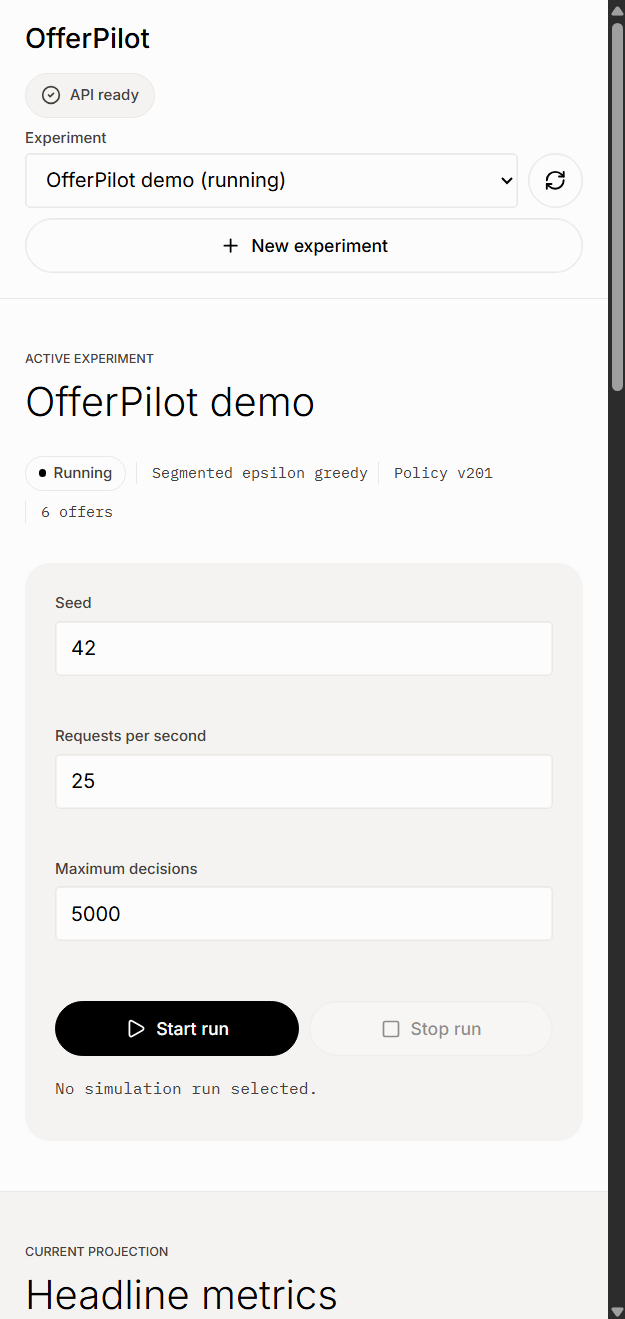
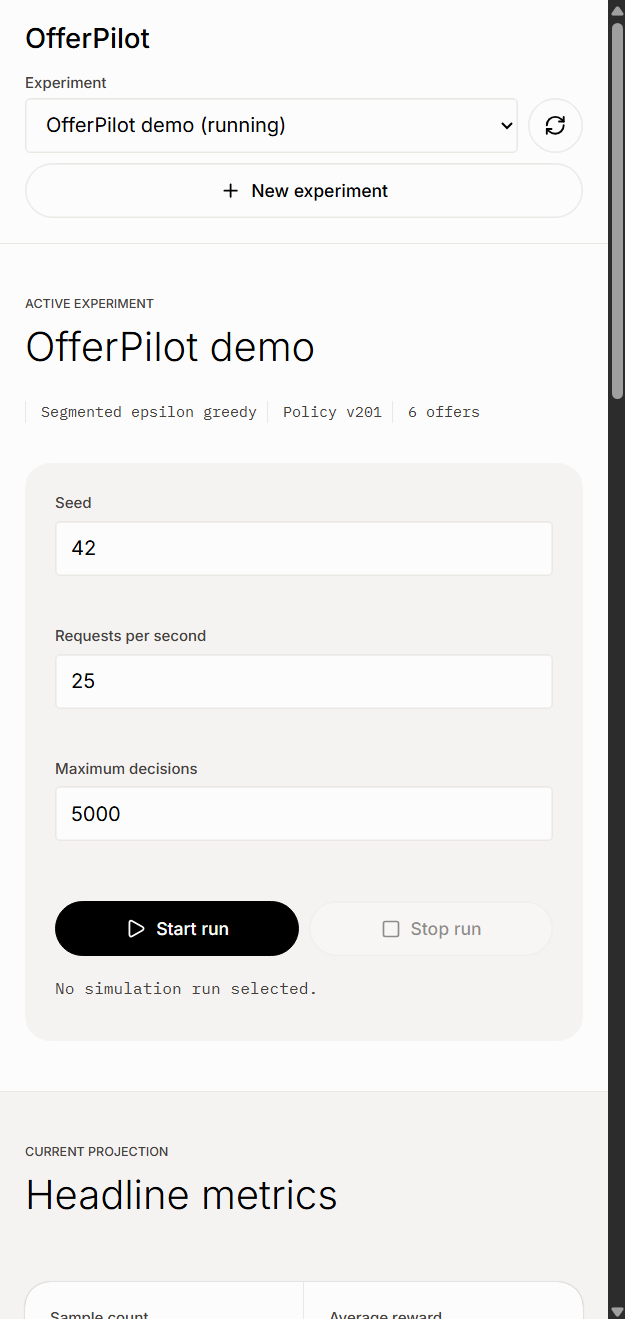
refactor(web): remove decorative status badges

diff --git a/web/src/styles.css b/web/src/styles.css
@@ -220,21 +220,6 @@ code {
   white-space: nowrap;
 }
 
-.health-status {
-  display: inline-flex;
-  min-height: 36px;
-  align-items: center;
-  padding: 0 12px;
-  border: 1px solid var(--color-stone);
-  border-radius: var(--radius-full);
-  gap: 7px;
-  background: var(--color-warm-taupe);
-  color: var(--color-graphite);
-  font-size: 12px;
-  font-weight: 500;
-  white-space: nowrap;
-}
-
 .button,
 .icon-button {
   display: inline-flex;
@@ -392,15 +377,6 @@ code {
   font-size: 12px;
   font-weight: 500;
   white-space: nowrap;
-}
-
-.status-label--running::before,
-.status-label--ready::before {
-  width: 6px;
-  height: 6px;
-  border-radius: var(--radius-full);
-  background: var(--color-ink);
-  content: "";
 }
 
 .status-label--stale,
@@ -917,7 +893,7 @@ code {
 
   .topbar__operations {
     display: grid;
-    grid-template-columns: auto minmax(260px, 1fr) 44px auto;
+    grid-template-columns: minmax(260px, 1fr) 44px auto;
     align-items: end;
   }
 
@@ -969,11 +945,6 @@ code {
 
   .topbar__operations {
     grid-template-columns: minmax(0, 1fr) 44px;
-  }
-
-  .health-status {
-    grid-column: 1 / -1;
-    justify-self: start;
   }
 
   .topbar__operations > .button {

diff --git a/web/src/App.tsx b/web/src/App.tsx
@@ -1,4 +1,4 @@
-import { Activity, CircleAlert, CircleCheck, Plus, RefreshCw, X } from "lucide-react";
+import { Activity, CircleAlert, Plus, RefreshCw, X } from "lucide-react";
 import { lazy, Suspense, useState } from "react";
 import type { FormEvent } from "react";
 
@@ -203,9 +203,6 @@ export default function App() {
                   <h2 id="simulation-controls-title">{dashboard.selectedExperiment.name}</h2>
                 </div>
                 <div className="experiment-context__meta">
-                  <span className={`status-label status-label--${dashboard.selectedExperiment.status}`}>
-                    {humanize(dashboard.selectedExperiment.status)}
-                  </span>
                   <span>{humanize(dashboard.selectedExperiment.policy_kind)}</span>
                   <span>Policy v{dashboard.selectedExperiment.policy_version}</span>
                   {dashboard.experimentDetail === null ? null : <span>{dashboard.experimentDetail.offers.length} offers</span>}
@@ -305,12 +302,7 @@ function HealthStatus({ status, ready }: { status: PanelStatus; ready: boolean }
       : status === "stale"
         ? "API health stale"
         : "API not ready";
-  return (
-    <span className={`health-status health-status--${ready ? "ready" : status}`} role="status" title={label}>
-      {ready ? <CircleCheck size={16} aria-hidden="true" /> : <CircleAlert size={16} aria-hidden="true" />}
-      {label}
-    </span>
-  );
+  return <span className="sr-only" role="status" aria-label={label} aria-live="polite">{label}</span>;
 }
 
 function LearningChartFallback() {

diff --git a/web/src/App.test.tsx b/web/src/App.test.tsx
@@ -86,7 +86,7 @@ describe("OfferPilot dashboard", () => {
     render(<App />);
 
     await screen.findByRole("heading", { name: experimentA.name });
-    expect(screen.getByText("API ready")).toBeInTheDocument();
+    expect(screen.getByRole("status", { name: "API ready" })).toBeInTheDocument();
 
     const metrics = requireElement(screen.getByRole("heading", { name: "Headline metrics" }).closest("section"));
     expect(await within(metrics).findByText("1,250")).toBeInTheDocument();